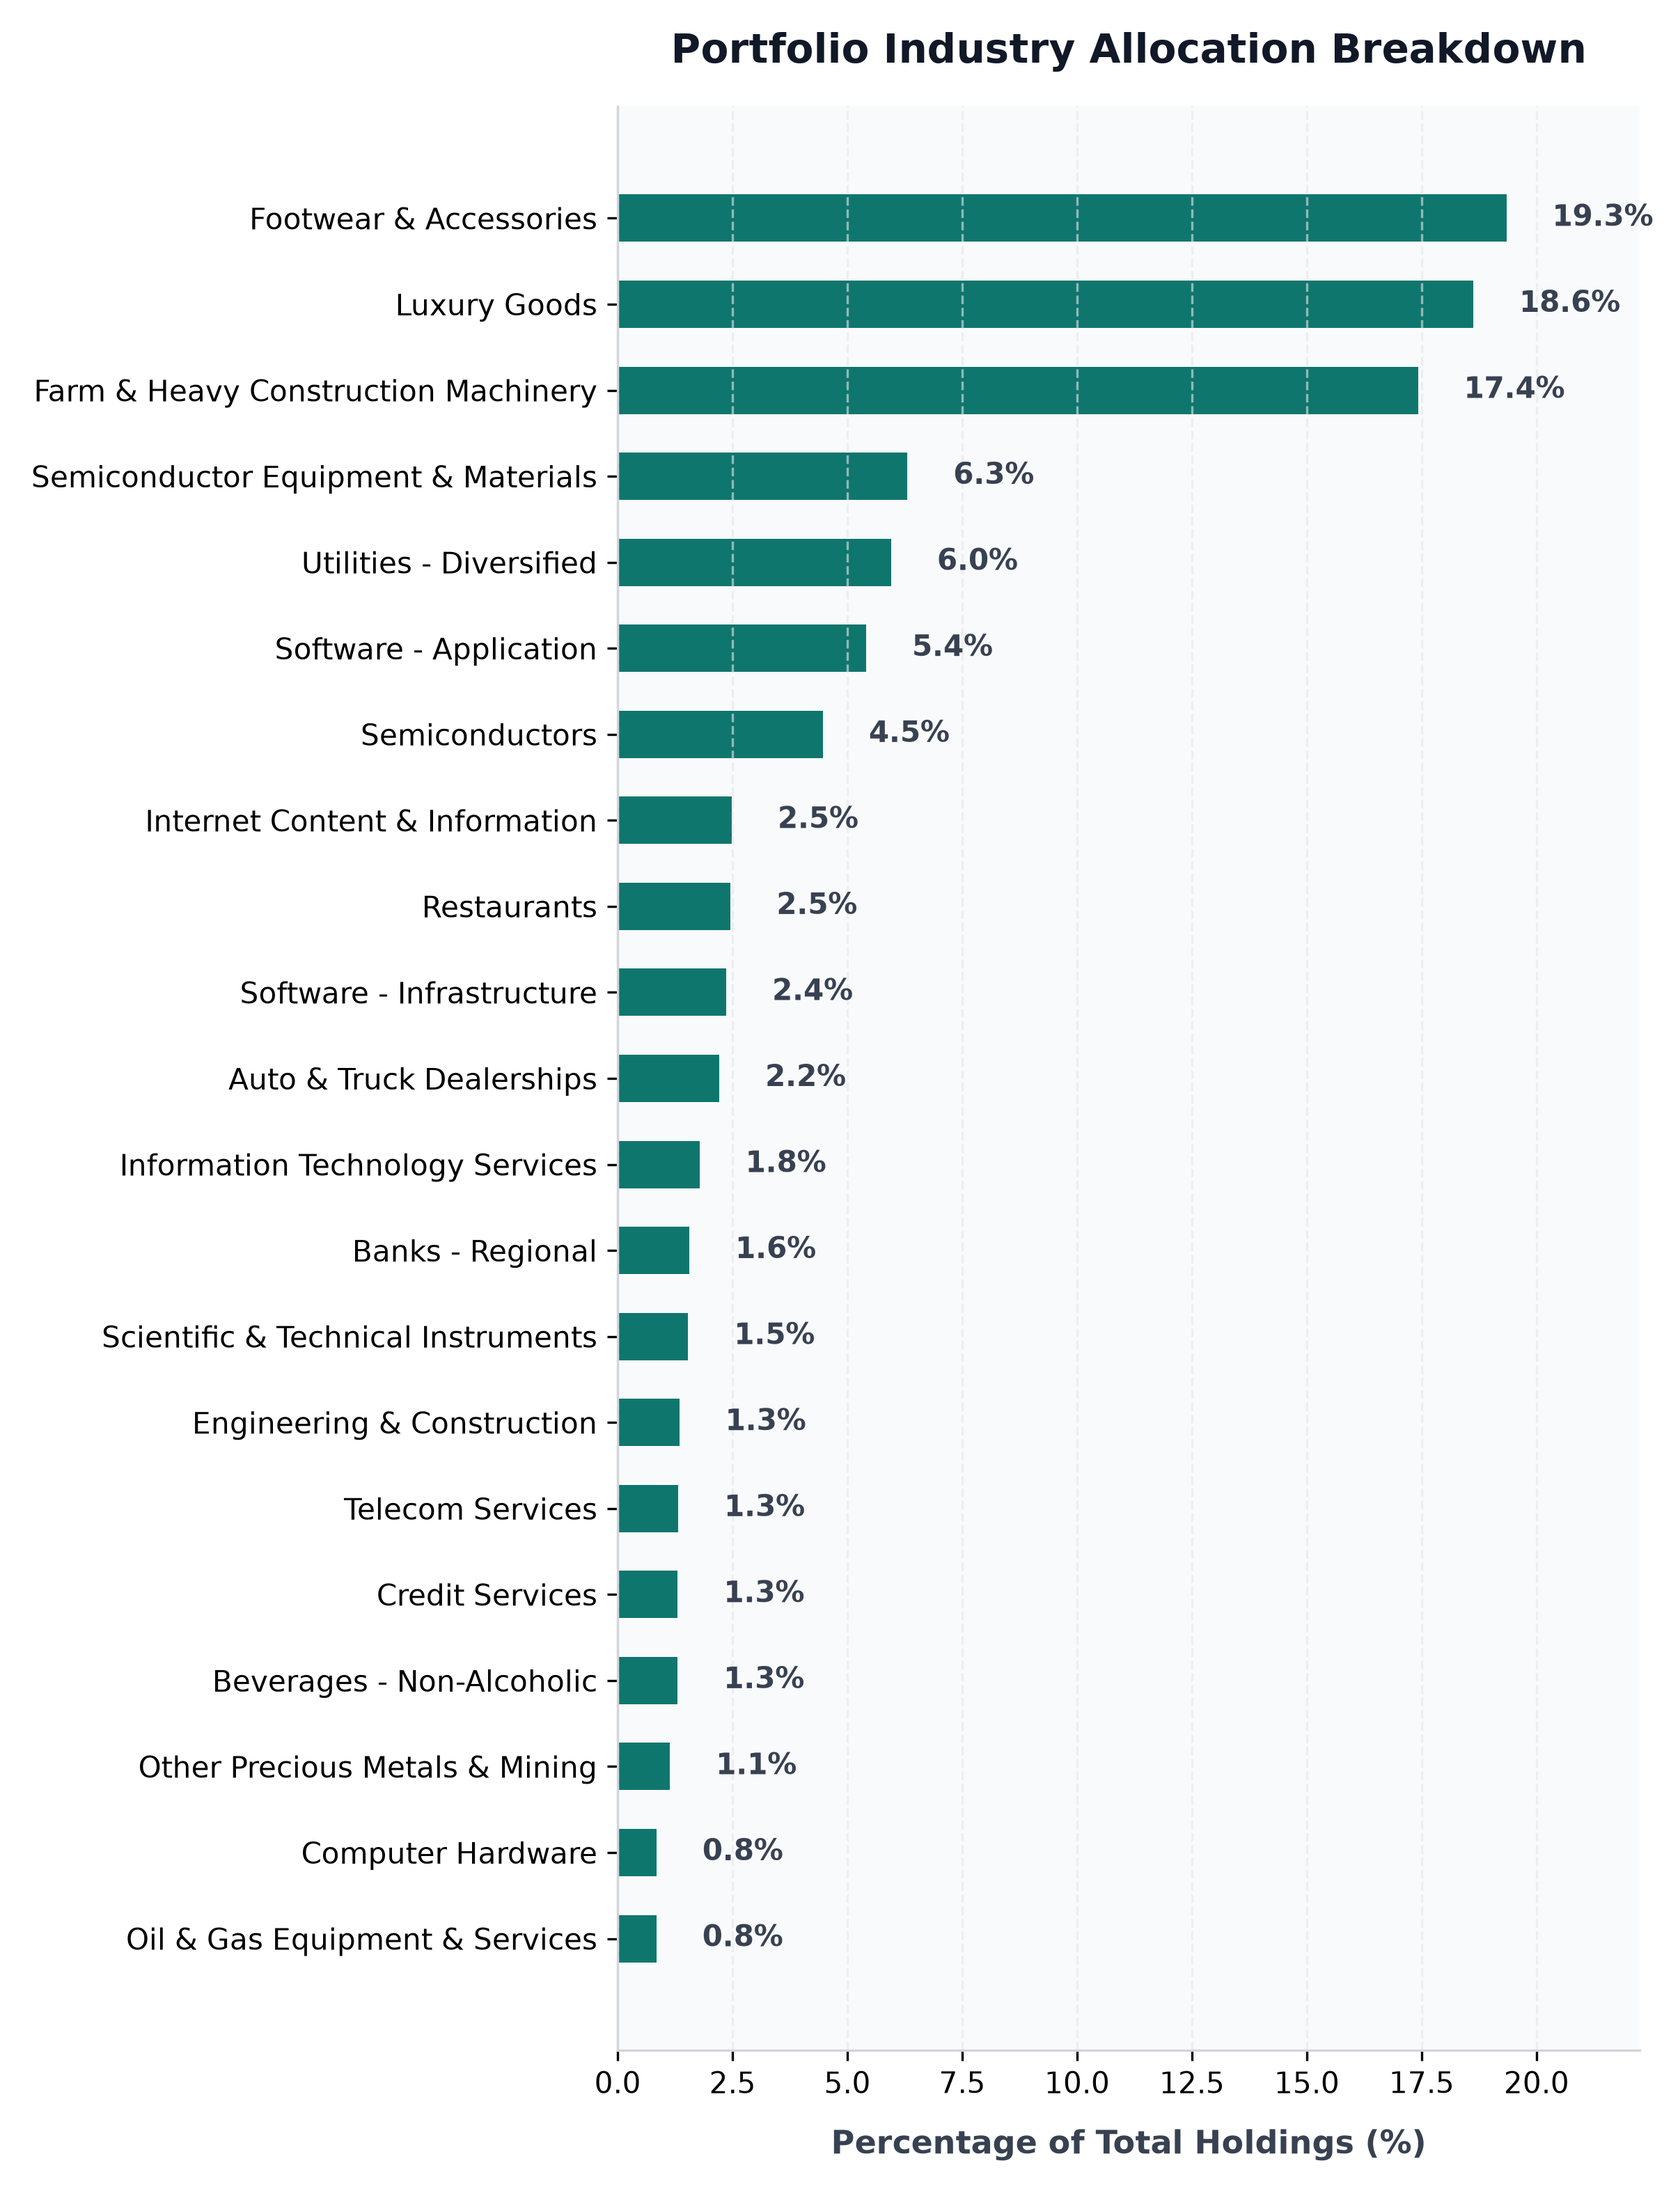
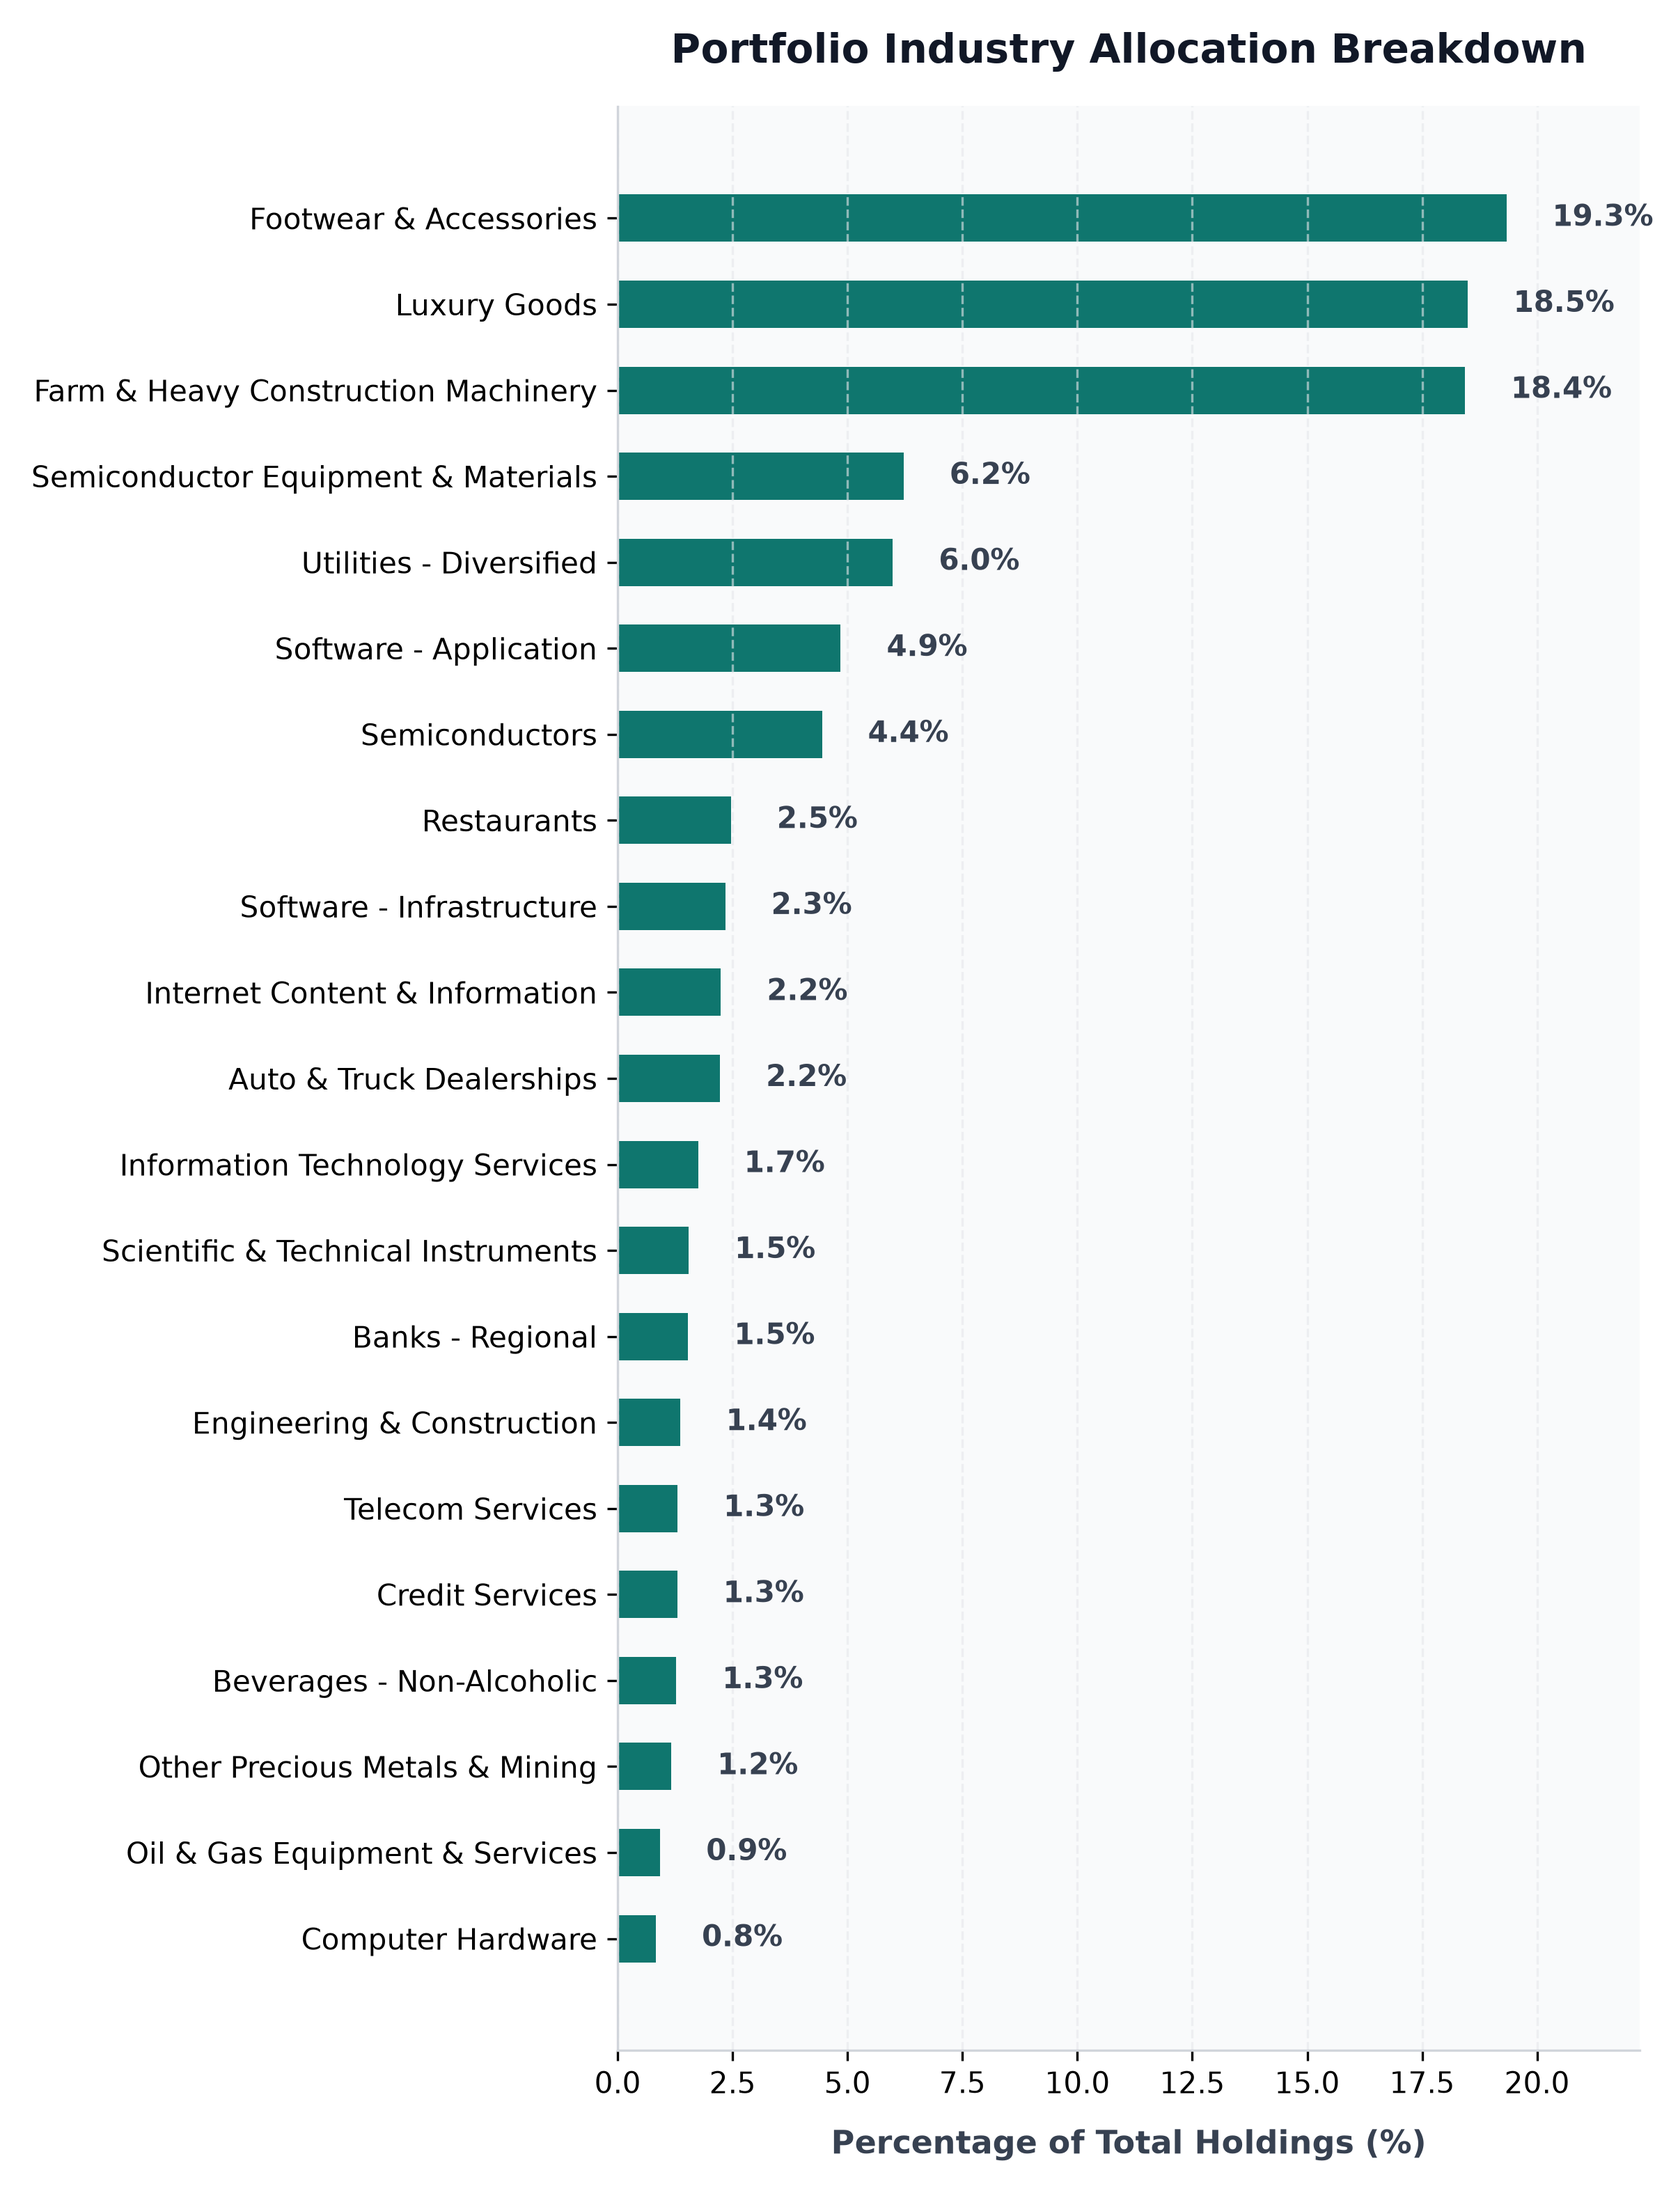
auto: daily portfolio status update - 2026-11-05 06:05:13

diff --git a/src/content/posts/portfolio-performance.md b/src/content/posts/portfolio-performance.md
@@ -1,6 +1,6 @@
 ---
 title: "BadOmen Algorithmic Portfolio Performance & PnL Report"
-pubDatetime: 2026-11-05T00:00:15.850698+08:00
+pubDatetime: 2026-11-05T06:05:13.728852+08:00
 description: "Live performance metrics, active holdings, and historic equity curve for the BadOmen automated paper trading portfolio."
 featured: true
 draft: false
@@ -16,11 +16,11 @@ Welcome to the live performance dashboard for **BadOmen**, our automated algorit
 ## 📊 Portfolio Summary
 | Performance Metric | Value | description |
 | :--- | :--- | :--- |
-| **Net Portfolio Equity** | **$104,996.84** | Total current liquidation value of cash and stock holdings |
-| **Total Unrealized P&L** | 🟢 **+$2,155.09** (+2.10%) | Total return of current open holdings |
+| **Net Portfolio Equity** | **$105,132.60** | Total current liquidation value of cash and stock holdings |
+| **Total Unrealized P&L** | 🟢 **+$2,292.25** (+2.23%) | Total return of current open holdings |
 | **Cash Balance** | $26,189.41 | Idle reserve currency available for limit orders |
-| **Buying Power** | $315,326.28 | Margin-backed buying power for entry allocations |
-| **Report Updated** | `2026-11-05 00:00:15 (SGT)` | Timestamp of daily execution and sync run |
+| **Buying Power** | $315,706.40 | Margin-backed buying power for entry allocations |
+| **Report Updated** | `2026-11-05 06:05:13 (SGT)` | Timestamp of daily execution and sync run |
 
 ## 📈 Net Equity Growth Curve
 The chart below illustrates the historical performance of the account starting from our baseline capital funding of $100,000.00.
@@ -35,36 +35,36 @@ The chart below illustrates the exposure of our currently held active positions 
 ## 💼 Current Position Holdings
 | Ticker | Industry | Shares Owned | Average Entry Cost | Current Price | Unrealized P&L | Return (%) |
 | :--- | :--- | :--- | :--- | :--- | :--- | :--- |
-| **AN** | Auto & Truck Dealerships | 5 | $188.51 | $183.72 | 🔴 $-23.94 | -2.54% |
-| **AVGO** | Semiconductors | 1 | $385.71 | $325.00 | 🔴 $-60.71 | -15.74% |
-| **BIRK** | Footwear & Accessories | 407 | $37.32 | $37.45 | 🟢 +$55.87 | +0.37% |
-| **BLBD** | Farm & Heavy Construction Machinery | 231 | $65.52 | $59.42 | 🔴 $-1,407.01 | -9.30% |
-| **BVN** | Other Precious Metals & Mining | 32 | $31.88 | $28.02 | 🔴 $-123.36 | -12.09% |
-| **CELH** | Beverages - Non-Alcoholic | 33 | $29.71 | $31.17 | 🟢 +$48.09 | +4.91% |
-| **CPRI** | Luxury Goods | 695 | $14.13 | $21.12 | 🟢 +$4,856.58 | +49.45% |
-| **DUOL** | Software - Application | 14 | $131.04 | $170.20 | 🟢 +$548.18 | +29.88% |
-| **FIS** | Information Technology Services | 23 | $41.79 | $29.84 | 🔴 $-274.74 | -28.58% |
-| **GDDY** | Software - Infrastructure | 6 | $76.21 | $119.47 | 🟢 +$259.56 | +56.76% |
-| **GDS** | Information Technology Services | 30 | $32.77 | $23.89 | 🔴 $-266.55 | -27.11% |
-| **GGAL** | Banks - Regional | 17 | $56.04 | $32.00 | 🔴 $-408.67 | -42.90% |
-| **GOOGL** | Internet Content & Information | 3 | $319.44 | $293.66 | 🔴 $-77.34 | -8.07% |
-| **GPI** | Auto & Truck Dealerships | 3 | $316.15 | $274.70 | 🔴 $-124.35 | -13.11% |
-| **HUBS** | Software - Application | 8 | $221.18 | $234.87 | 🟢 +$109.53 | +6.19% |
-| **ITRI** | Scientific & Technical Instruments | 12 | $81.80 | $100.69 | 🟢 +$226.62 | +23.09% |
-| **KBR** | Engineering & Construction | 27 | $36.23 | $39.15 | 🟢 +$78.76 | +8.05% |
-| **LRCX** | Semiconductor Equipment & Materials | 22 | $234.94 | $225.90 | 🔴 $-198.83 | -3.85% |
-| **NESR** | Oil & Gas Equipment & Services | 34 | $28.74 | $19.52 | 🔴 $-313.31 | -32.06% |
-| **NU** | Banks - Regional | 57 | $11.60 | $12.03 | 🟢 +$24.31 | +3.68% |
-| **ON** | Semiconductors | 10 | $90.45 | $69.88 | 🔴 $-205.75 | -22.75% |
-| **ORCL** | Software - Infrastructure | 5 | $181.95 | $126.23 | 🔴 $-278.59 | -30.62% |
-| **PATH** | Software - Infrastructure | 38 | $10.25 | $13.53 | 🟢 +$124.64 | +32.00% |
-| **PYPL** | Credit Services | 17 | $56.05 | $60.61 | 🟢 +$77.52 | +8.14% |
-| **QCOM** | Semiconductors | 15 | $193.68 | $166.44 | 🔴 $-408.67 | -14.07% |
-| **SMCI** | Computer Hardware | 22 | $29.25 | $30.21 | 🟢 +$21.23 | +3.30% |
-| **SRE** | Utilities - Diversified | 57 | $84.75 | $82.30 | 🔴 $-139.79 | -2.89% |
-| **T** | Telecom Services | 47 | $20.85 | $22.09 | 🟢 +$58.28 | +5.95% |
-| **WEN** | Restaurants | 257 | $8.02 | $7.54 | 🔴 $-125.60 | -6.09% |
-| **ZG** | Internet Content & Information | 31 | $31.35 | $34.68 | 🟢 +$103.13 | +10.61% |
+| **AN** | Auto & Truck Dealerships | 5 | $188.51 | $187.76 | 🔴 $-3.74 | -0.40% |
+| **AVGO** | Semiconductors | 1 | $385.71 | $327.14 | 🔴 $-58.57 | -15.19% |
+| **BIRK** | Footwear & Accessories | 407 | $37.32 | $37.50 | 🟢 +$74.19 | +0.49% |
+| **BLBD** | Farm & Heavy Construction Machinery | 231 | $65.52 | $62.99 | 🔴 $-583.50 | -3.86% |
+| **BVN** | Other Precious Metals & Mining | 32 | $31.88 | $28.80 | 🔴 $-98.40 | -9.65% |
+| **CELH** | Beverages - Non-Alcoholic | 33 | $29.71 | $30.49 | 🟢 +$25.65 | +2.62% |
+| **CPRI** | Luxury Goods | 695 | $14.13 | $21.00 | 🟢 +$4,773.18 | +48.60% |
+| **DUOL** | Software - Application | 14 | $131.04 | $162.14 | 🟢 +$435.34 | +23.73% |
+| **FIS** | Information Technology Services | 23 | $41.79 | $29.73 | 🔴 $-277.38 | -28.86% |
+| **GDDY** | Software - Infrastructure | 6 | $76.21 | $118.37 | 🟢 +$252.96 | +55.32% |
+| **GDS** | Information Technology Services | 30 | $32.77 | $23.25 | 🔴 $-285.60 | -29.05% |
+| **GGAL** | Banks - Regional | 17 | $56.04 | $30.95 | 🔴 $-426.52 | -44.77% |
+| **GOOGL** | Internet Content & Information | 3 | $319.44 | $291.10 | 🔴 $-85.02 | -8.87% |
+| **GPI** | Auto & Truck Dealerships | 3 | $316.15 | $272.81 | 🔴 $-130.02 | -13.71% |
+| **HUBS** | Software - Application | 8 | $221.18 | $195.00 | 🔴 $-209.45 | -11.84% |
+| **ITRI** | Scientific & Technical Instruments | 12 | $81.80 | $101.60 | 🟢 +$237.60 | +24.20% |
+| **KBR** | Engineering & Construction | 27 | $36.23 | $39.64 | 🟢 +$91.99 | +9.40% |
+| **LRCX** | Semiconductor Equipment & Materials | 22 | $234.94 | $223.19 | 🔴 $-258.45 | -5.00% |
+| **NESR** | Oil & Gas Equipment & Services | 34 | $28.74 | $21.48 | 🔴 $-246.84 | -25.26% |
+| **NU** | Banks - Regional | 57 | $11.60 | $12.00 | 🟢 +$22.83 | +3.45% |
+| **ON** | Semiconductors | 10 | $90.45 | $71.38 | 🔴 $-190.77 | -21.09% |
+| **ORCL** | Software - Infrastructure | 5 | $181.95 | $124.65 | 🔴 $-286.51 | -31.49% |
+| **PATH** | Software - Infrastructure | 38 | $10.25 | $13.50 | 🟢 +$123.50 | +31.71% |
+| **PYPL** | Credit Services | 17 | $56.05 | $60.15 | 🟢 +$69.70 | +7.32% |
+| **QCOM** | Semiconductors | 15 | $193.68 | $164.46 | 🔴 $-438.42 | -15.09% |
+| **SMCI** | Computer Hardware | 22 | $29.25 | $29.80 | 🟢 +$12.20 | +1.90% |
+| **SRE** | Utilities - Diversified | 57 | $84.75 | $82.90 | 🔴 $-105.59 | -2.19% |
+| **T** | Telecom Services | 47 | $20.85 | $21.87 | 🟢 +$48.08 | +4.91% |
+| **WEN** | Restaurants | 257 | $8.02 | $7.57 | 🔴 $-117.56 | -5.70% |
+| **ZG** | Internet Content & Information | 31 | $31.35 | $29.01 | 🔴 $-72.64 | -7.47% |
 
 ## 🔴 Recent Realized Trades
 | Ticker | Shares Sold | Entry Price | Exit Price | Strategy Trigger | Realized Return | Exit Date |
